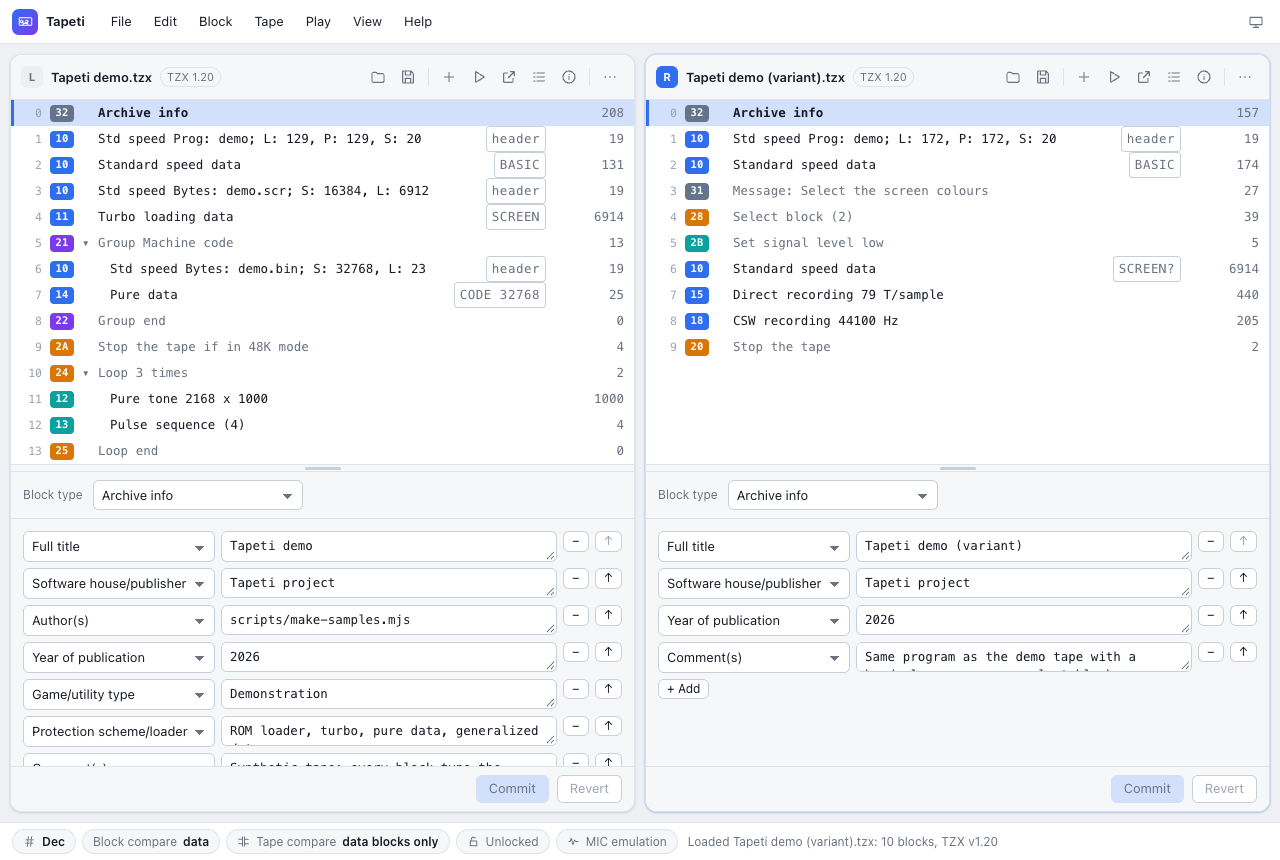
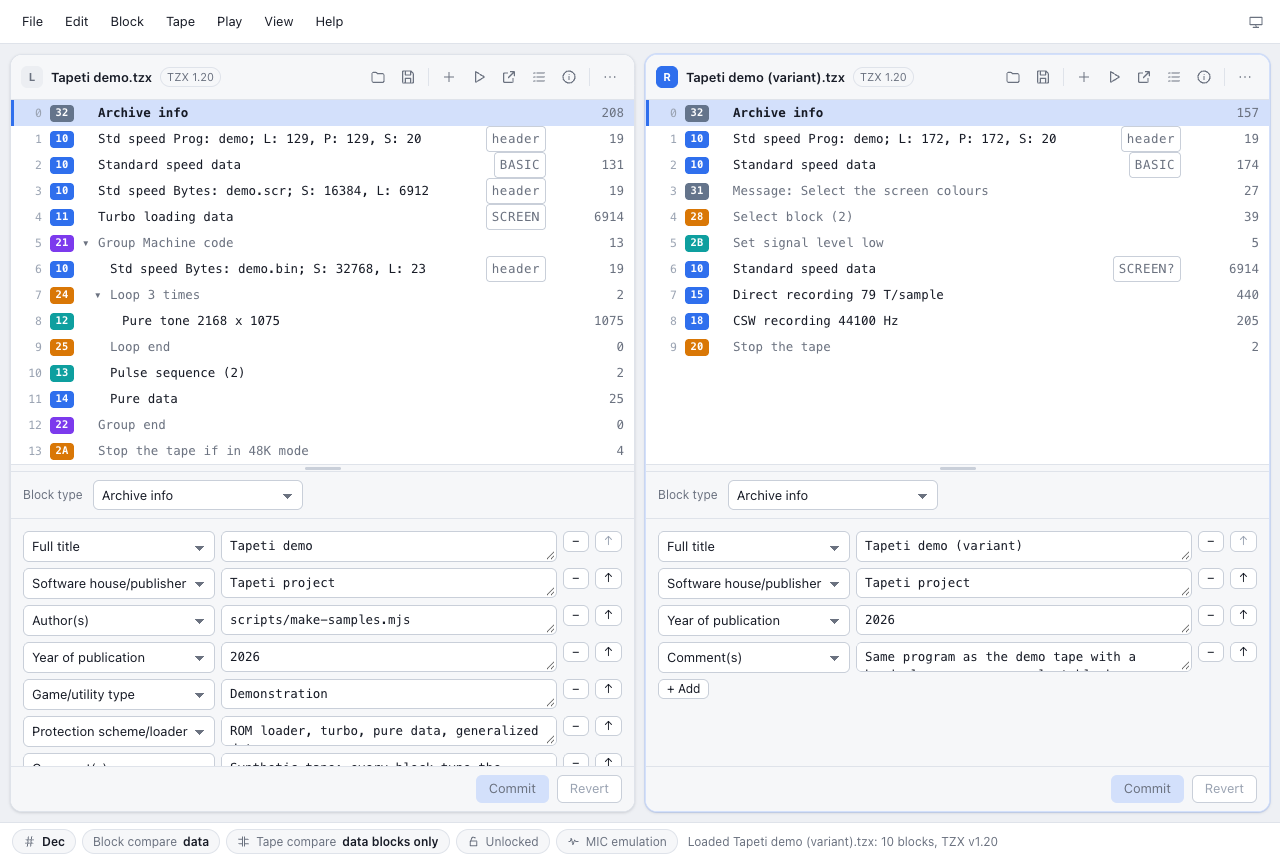
Tidy the text and menus users see
Nothing stands in front of File any more, macOS's app menu opens the app's
own About, and About, Tape info and Check consistency lose their ellipsis.
The About dialog drops what it repeated or overstated, the release notes and
README drop the "runs locally" line and the list of web engines, and the
notes' comment no longer invites a hand-written section.

diff --git a/web/src/state/commands.ts b/web/src/state/commands.ts
@@ -101,8 +101,8 @@ export const COMMANDS = {
   'emu-selection': { label: 'Download selection for emulator', enabled: hasCursor, run: (s) => openInEmulator(s, 'selection') },
   'emu-settings': { label: 'Emulator settings…', run: () => (dialog.value = { kind: 'emulator' }) },
   'programs': { label: 'Programs…', key: fmtKey('Mod+J'), enabled: hasBlocks, run: openProgramPicker },
-  'tape-info': { label: 'Tape info…', enabled: hasBlocks, run: (s) => (dialog.value = { kind: 'tapeinfo', side: s }) },
-  'consistency': { label: 'Check consistency…', enabled: hasBlocks, run: (s) => (dialog.value = { kind: 'consistency', side: s }) },
+  'tape-info': { label: 'Tape info', enabled: hasBlocks, run: (s) => (dialog.value = { kind: 'tapeinfo', side: s }) },
+  'consistency': { label: 'Check consistency', enabled: hasBlocks, run: (s) => (dialog.value = { kind: 'consistency', side: s }) },
   'compare': { label: 'Compare tapes', run: () => runCompareTapes() },
   'clear-compare': { label: 'Clear compare marks', run: () => clearCompare() },
   'switch-pane': { label: 'Switch active pane', key: 'Tab', run: (s) => (active.value = other(s)) },
@@ -116,7 +116,7 @@ export const COMMANDS = {
   'theme-dark': { label: 'Theme: dark', checked: () => theme.value === 'dark', run: () => applyTheme('dark') },
   'theme-system': { label: 'Theme: system', checked: () => theme.value === 'system', run: () => applyTheme('system') },
   // ---- help
-  'about': { label: 'About Tapeti…', run: () => (dialog.value = { kind: 'about' }) },
+  'about': { label: 'About Tapeti', run: () => (dialog.value = { kind: 'about' }) },
 } satisfies Record<string, Command>;
 
 export type CommandId = keyof typeof COMMANDS;

diff --git a/web/src/ui/TapePane.tsx b/web/src/ui/TapePane.tsx
@@ -337,7 +337,7 @@ export function TapePane({ side, grow = 1 }: { side: Side; grow?: number }) {
           <IconBtn name={playing.value ? 'stop' : 'play'} title={playing.value ? 'Stop playback' : 'Play from cursor'} disabled={!has} onClick={() => runCommand(playing.value ? 'stop' : 'play-cursor', side)} />
           <IconBtn name="launch" title={commandLabel('emu-tape', side)} disabled={!has} onClick={() => runCommand('emu-tape', side)} />
           <IconBtn name="list" title="Programs…" disabled={!has} onClick={() => runCommand('programs', side)} />
-          <IconBtn name="info" title="Tape info…" disabled={!has} onClick={() => runCommand('tape-info', side)} />
+          <IconBtn name="info" title="Tape info" disabled={!has} onClick={() => runCommand('tape-info', side)} />
           <span class="vsep" />
           <div class={'menu pane-more' + (more ? ' open' : '')}>
             <IconBtn name="more" title="More for this tape" active={more} onClick={() => setMore(!more)} />

diff --git a/web/src/ui/MenuBar.tsx b/web/src/ui/MenuBar.tsx
@@ -4,7 +4,7 @@
 import { useState, useEffect } from 'preact/hooks';
 import { Side, active, theme, themePinned, cycleTheme } from '../state/store';
 import { COMMANDS, Command, CommandId, commandEnabled, commandKey, commandLabel, runCommand } from '../state/commands';
-import { Icon, IconBtn } from './icons';
+import { IconBtn } from './icons';
 
 export interface MenuItem {
   label?: string;
@@ -155,7 +155,6 @@ export function MenuBar() {
   const menus: [string, MenuItem[]][] = SHOWN_MENUS.map(([title, entries]) => [title, items(active.value, entries)]);
   return (
     <div class="menubar" onClick={(e) => e.stopPropagation()}>
-      <div class="brand"><span class="logo"><Icon name="cassette" size={15} /></span>Tapeti</div>
       {menus.map(([title, items]) => (
         <div key={title} onMouseEnter={() => open && open !== title && setOpen(title)}>
           <Menu title={title} items={items} open={open === title} onOpen={() => setOpen(title)} onClose={() => setOpen(null)} />

diff --git a/web/src/ui/Dialogs.tsx b/web/src/ui/Dialogs.tsx
@@ -67,9 +67,7 @@ export function Dialogs() {
     case 'about':
       return (
         <Modal title="About Tapeti" onClose={close} footer={<button class="primary" onClick={close}>OK</button>}>
-          <p><b>Tapeti</b> — an editor for ZX Spectrum TZX and TAP tape images, for the desktop and the browser.</p>
-          <p>Everything runs locally; files never leave your machine.</p>
-          <p class="note">Supports TZX 1.20 blocks 10–19, 20–28, 2A, 2B, 30–33, 35 and 5A; unknown and deprecated blocks are preserved untouched.</p>
+          <p>An editor for ZX Spectrum TZX and TAP tape images.</p>
           <p class="note">Copyright (C) 2026 AJ Banck. Tapeti is free software under the GNU General Public License, version 2 or (at your option) any later version, and comes with absolutely no warranty.</p>
           <p class="note">Parts derive from Taper, Copyleft (C) 1997-2001 ThunderWare Research Center, written by Martijn van der Heide.</p>
         </Modal>

diff --git a/web/src/style.css b/web/src/style.css
@@ -128,8 +128,6 @@ button.icon:disabled { color: var(--faint); }
   display: flex; flex: none; align-items: center; gap: 2px; height: 44px; padding: 0 10px 0 12px;
   background: var(--surface); border-bottom: 1px solid var(--border); position: relative; z-index: 20;
 }
-.brand { display: flex; align-items: center; gap: 8px; font-weight: 650; letter-spacing: -0.01em; margin-right: 14px; color: var(--text); }
-.brand .logo { display: inline-flex; width: 26px; height: 26px; border-radius: 7px; background: linear-gradient(135deg, #2f6fed, #7c3aed); color: #fff; align-items: center; justify-content: center; }
 .menubar .spacer { flex: 1; }
 .menu { position: relative; }
 .menu > .title { padding: 6px 10px; border-radius: var(--radius-sm); cursor: default; color: var(--text); }

diff --git a/desktop/src/menu.rs b/desktop/src/menu.rs
@@ -80,17 +80,15 @@ mod platform {
             let bar = MudaMenu::new();
 
             // macOS expects the first menu to be the application's own; muda, unlike
-            // Slint, does not add it for you.
+            // Slint, does not add it for you. Its About is the table's `about`, the
+            // app's own dialog, rather than AppKit's standard panel, and it leaves
+            // the Help menu, which is dropped once it has nothing else.
+            let about = crate::menutable::flat().into_iter().find(|i| i.id == "about").expect("about");
+            let about = MenuItem::with_id(about.id, about.label, true, None);
             {
-                let about = muda::AboutMetadata {
-                    name: Some("Tapeti".into()),
-                    version: Some(env!("CARGO_PKG_VERSION").into()),
-                    comments: Some("ZX Spectrum TZX/TAP tape editor".into()),
-                    ..Default::default()
-                };
                 let app_menu = Submenu::new("Tapeti", true);
                 let _ = app_menu.append_items(&[
-                    &PredefinedMenuItem::about(Some("About Tapeti"), Some(about)),
+                    &about,
                     &PredefinedMenuItem::separator(),
                     &PredefinedMenuItem::services(None),
                     &PredefinedMenuItem::separator(),
@@ -107,7 +105,9 @@ mod platform {
             for menu in MENUS {
                 let sub = Submenu::new(menu.title, true);
                 for item in menu.items {
-                    if item.id.is_empty() {
+                    if item.id == about.id().0 {
+                        handles.push(Handle::Item(about.clone()));
+                    } else if item.id.is_empty() {
                         let sep = PredefinedMenuItem::separator();
                         let _ = sub.append(&sep);
                         handles.push(Handle::Separator);
@@ -121,7 +121,9 @@ mod platform {
                         handles.push(Handle::Item(it));
                     }
                 }
-                let _ = bar.append(&sub);
+                if !sub.items().is_empty() {
+                    let _ = bar.append(&sub);
+                }
             }
 
             bar.init_for_nsapp();
@@ -177,16 +179,6 @@ mod in_window {
         injected: std::cell::RefCell<Option<(String, usize)>>,
     }
 
-    /// `.brand` in `style.css`: the cassette in a rounded square, then the
-    /// wordmark. This bar is the app's own, so it says whose it is.
-    fn brand(ui: &mut egui::Ui, tok: &Tokens) {
-        let (rect, _) = ui.allocate_exact_size(egui::vec2(26.0, 26.0), egui::Sense::hover());
-        ui.painter().rect_filled(rect, egui::CornerRadius::same(7), tok.brand);
-        crate::icons::paint(ui.painter(), rect.shrink(5.5), &crate::icons::CASSETTE, tok.accent_text);
-        ui.label(egui::RichText::new("Tapeti").size(13.0).strong().color(tok.text));
-        ui.add_space(8.0);
-    }
-
     /// The left padding every item of a dropdown gets, and the box the tick is
     /// drawn in.
     const TICK_GUTTER: f32 = 20.0;
@@ -239,7 +231,6 @@ mod in_window {
             let checked = self.checked.borrow();
             let mut fired = None;
             egui::MenuBar::new().ui(ui, |ui| {
-                brand(ui, tok);
                 for menu in MENUS {
                     ui.menu_button(menu.title, |ui| {
                         // Reserves room for a tick like `.menu .item`'s 28px `::before`
@@ -467,7 +458,6 @@ mod tests {
     /// The left pane's overflow button in an 1100 point window with no menu bar.
     const MORE_AT: egui::Pos2 = egui::pos2(506.0, 28.0);
 
-    /// Where "View" sits in the bar: after the brand and File, Edit, Block,
-    /// Tape, Play.
-    const VIEW_X: f32 = 300.0;
+    /// Where "View" sits in the bar: after File, Edit, Block, Tape, Play.
+    const VIEW_X: f32 = 213.0;
 }

diff --git a/desktop/src/menutable.rs b/desktop/src/menutable.rs
@@ -154,8 +154,8 @@ pub const MENUS: &[MenuDef] = &[
         title: "Tape",
         items: &[
             cmd("programs", "Programs…", "CmdOrCtrl+J", Blocks),
-            cmd("tape-info", "Tape Info…", "CmdOrCtrl+I", Blocks),
-            cmd("consistency", "Check Consistency…", "CmdOrCtrl+K", Blocks),
+            cmd("tape-info", "Tape Info", "CmdOrCtrl+I", Blocks),
+            cmd("consistency", "Check Consistency", "CmdOrCtrl+K", Blocks),
             sep(),
             cmd("compare", "Compare Tapes", "", Always),
             cmd("find-match", "Find Match", "CmdOrCtrl+F", Cursor),
@@ -196,7 +196,7 @@ pub const MENUS: &[MenuDef] = &[
             cmd("switch-pane", "Switch Active Pane", "CmdOrCtrl+`", Always),
         ],
     },
-    MenuDef { title: "Help", items: &[cmd("about", "About Tapeti…", "", Always)] },
+    MenuDef { title: "Help", items: &[cmd("about", "About Tapeti", "", Always)] },
 ];
 
 /// The pane header's overflow menu (`paneMenu` in `MenuBar.tsx`): what is per

diff --git a/desktop/src/theme.rs b/desktop/src/theme.rs
@@ -42,9 +42,6 @@ pub struct Tokens {
     /// Which icon the theme button shows: 0 sun, 1 moon, 2 follow the system.
     /// A token because the bar that draws it has no other route to the setting.
     pub theme_icon: u8,
-    /// The wordmark's square. The web fills it with a blue-to-violet gradient;
-    /// this is that gradient's midpoint, which is all a 26px square shows.
-    pub brand: Color32,
 }
 
 pub const LIGHT: Tokens = Tokens {
@@ -70,7 +67,6 @@ pub const LIGHT: Tokens = Tokens {
     ignored: rgb(0xa0a8b6),
     cat: [rgb(0x2f6fed), rgb(0x0e9f9f), rgb(0xd97706), rgb(0x7c3aed), rgb(0x64748b), rgb(0xb91c1c)],
     theme_icon: 2,
-    brand: rgb(0x5655ed),
 };
 
 pub const DARK: Tokens = Tokens {
@@ -98,7 +94,6 @@ pub const DARK: Tokens = Tokens {
     ignored: rgb(0x5e6878),
     cat: [rgb(0x6b9cff), rgb(0x2dd4bf), rgb(0xfbbf24), rgb(0xa78bfa), rgb(0x94a3b8), rgb(0xf87171)],
     theme_icon: 2,
-    brand: rgb(0x5655ed),
 };
 
 impl Tokens {

diff --git a/desktop/src/dialogs.rs b/desktop/src/dialogs.rs
@@ -297,16 +297,7 @@ const TAPER: &str =
                      Martijn van der Heide.";
 
 fn about_body(ui: &mut Ui, tok: &Tokens) -> Outcome {
-    ui.label(RichText::new("Tapeti").strong());
-    ui.label("An editor for ZX Spectrum TZX and TAP tape images, for the desktop and the browser.");
-    ui.add_space(4.0);
-    ui.label("Everything runs locally; files never leave your machine.");
-    ui.add_space(4.0);
-    w::note(
-        ui,
-        tok,
-        "Supports TZX 1.20 blocks 10–19, 20–28, 2A, 2B, 30–33, 35 and 5A; unknown and deprecated blocks are preserved untouched.",
-    );
+    ui.label("An editor for ZX Spectrum TZX and TAP tape images.");
     ui.add_space(4.0);
     w::note(ui, tok, format!("Version {}", env!("CARGO_PKG_VERSION")));
     ui.add_space(4.0);

diff --git a/desktop/src/icons.rs b/desktop/src/icons.rs
@@ -60,8 +60,6 @@ pub const WAVE: Icon = Icon::Path("wave");
 pub const COMPARE: Icon = Icon::Path("compare");
 pub const HASH: Icon = Icon::Path("hash");
 pub const LIST: Icon = Icon::Path("list");
-/// The wordmark's cassette.
-pub const CASSETTE: Icon = Icon::Path("cassette");
 /// An arrow leaving a box: open in the emulator.
 pub const LAUNCH: Icon = Icon::Path("launch");
 /// Three dots: the rest of a toolbar.
@@ -356,7 +354,6 @@ mod tests {
         ("caret right", &CARET_RIGHT),
         ("caret down", &CARET_DOWN),
         ("dot", &DOT),
-        ("cassette", &CASSETTE),
         ("launch", &LAUNCH),
         ("more", &MORE),
         ("minus", &MINUS),

diff --git a/desktop/src/app.rs b/desktop/src/app.rs
@@ -499,7 +499,7 @@ impl App {
                 }
             });
             crate::widgets::vsep(ui, &tok);
-            if icons::button(ui, &icons::INFO, "Tape info…", has).clicked() {
+            if icons::button(ui, &icons::INFO, "Tape info", has).clicked() {
                 run = Some("tape-info");
             }
             if icons::button(ui, &icons::LIST, "Programs…", has).clicked() {

diff --git a/README.md b/README.md
@@ -16,8 +16,7 @@ Desktop builds for macOS, Linux and Windows are attached to each
 | Windows | `.msi`, or the portable `.exe` | 10 | One executable; the `.msi` only adds the shortcut and the file associations. |
 | Browser | — | Safari 14.1, Chrome 90, Firefox 90 | Also runs on web views that never received updates. |
 
-The desktop app is a single native executable with no web view, and the `.tzx`/`.tap` file
-associations come with the bundle (macOS) or the installer (Windows).
+The `.tzx`/`.tap` file associations come with the bundle (macOS) or the installer (Windows).
 
 The browser version is the same app without native file dialogs: Open reads a file you pick,
 Save downloads a copy. To run it yourself, see [Building from source](#building-from-source).
